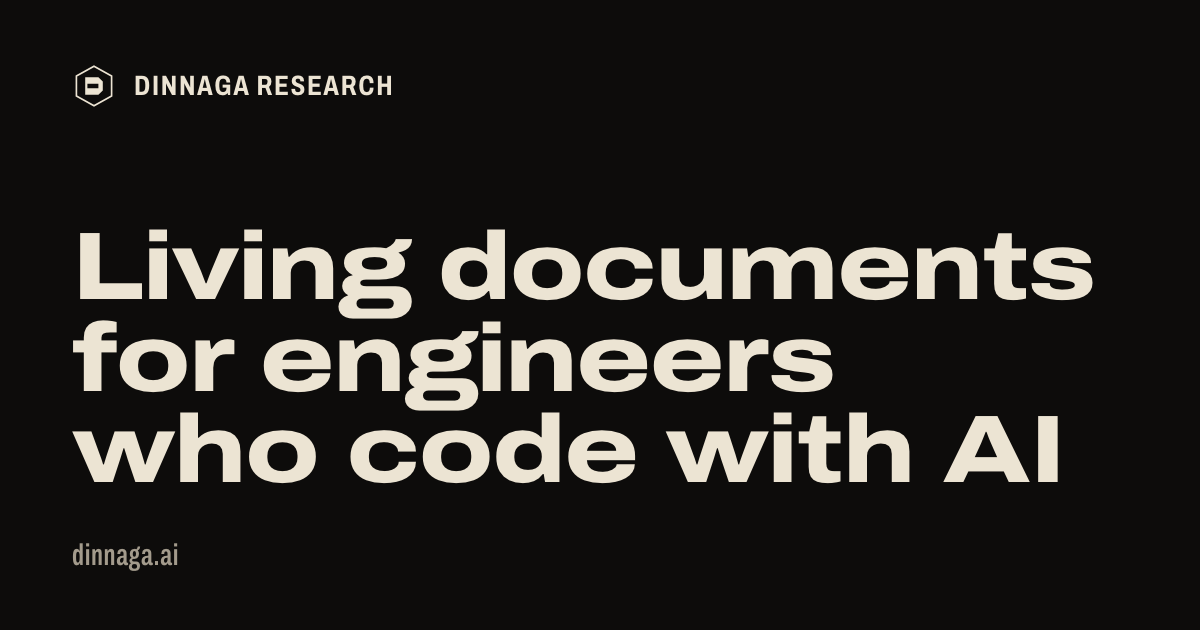
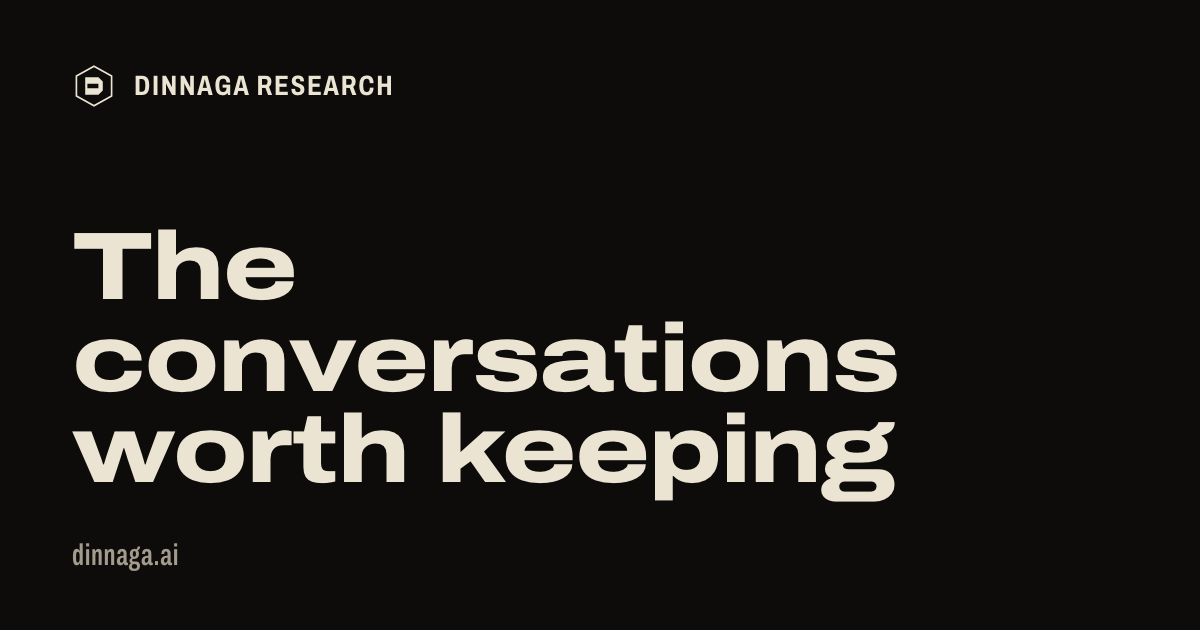
Copy: new headline and lede for the curation narrative
Headline "The conversations worth keeping" replaces "Living documents for
engineers who code with AI" on the hero, share card (og.png regenerated),
og:image:alt and README. The lede now reads: "Dinnaga Research finds the
best conversations and knowledge people are producing, tests what they
claim, and keeps what holds up, for readers now and for the machines that
infer from it." The sequence and its source labels are unchanged.

Changed region(s): [[0.0617, 0.3619, 0.8942, 0.8143], [0.37, 0.3619, 0.925, 0.4825]]

diff --git a/index.html b/index.html
@@ -6,7 +6,7 @@
     <title>Dinnaga Research</title>
     <meta
       name="description"
-      content="Dinnaga Research reads the papers, podcasts and vendor docs, tests what they claim, and publishes what holds up."
+      content="Dinnaga Research finds the best conversations and knowledge people are producing, tests what they claim, and keeps what holds up, for readers now and for the machines that infer from it."
     />
     <meta name="color-scheme" content="dark" />
     <meta name="theme-color" content="#0d0c0b" />
@@ -14,14 +14,14 @@
     <meta property="og:site_name" content="Dinnaga Research" />
     <meta
       property="og:description"
-      content="Dinnaga Research reads the papers, podcasts and vendor docs, tests what they claim, and publishes what holds up."
+      content="Dinnaga Research finds the best conversations and knowledge people are producing, tests what they claim, and keeps what holds up, for readers now and for the machines that infer from it."
     />
     <meta property="og:type" content="website" />
     <meta property="og:url" content="https://dinnaga.ai/" />
     <meta property="og:image" content="https://dinnaga.ai/og.png" />
     <meta property="og:image:width" content="1200" />
     <meta property="og:image:height" content="630" />
-    <meta property="og:image:alt" content="Dinnaga Research: Living documents for engineers who code with AI" />
+    <meta property="og:image:alt" content="Dinnaga Research: The conversations worth keeping" />
     <meta name="twitter:card" content="summary_large_image" />
     <meta name="twitter:image" content="https://dinnaga.ai/og.png" />
     <link rel="icon" type="image/svg+xml" href="/favicon.svg" />

diff --git a/src/lib/darkroom/sequence.test.ts b/src/lib/darkroom/sequence.test.ts
@@ -50,7 +50,7 @@ function build() {
   const art = document.createElement('div');
   const hero = document.createElement('div');
   const h1 = document.createElement('h1');
-  h1.textContent = 'Living documents for engineers who code with AI';
+  h1.textContent = 'The conversations worth keeping';
   hero.append(h1);
   const counter = document.createElement('p');
   const stamp = document.createElement('div');
@@ -158,11 +158,11 @@ describe('mountSequence', () => {
     roCallbacks[0]!([], {} as ResizeObserver);
     await settle();
     expect(els.h1.querySelectorAll('.ln').length).toBeGreaterThan(0);
-    expect(els.h1.textContent!.replace(/\s+/g, ' ')).toBe('Living documents for engineers who code with AI');
+    expect(els.h1.textContent!.replace(/\s+/g, ' ')).toBe('The conversations worth keeping');
     handle.destroy();
     handle = null;
     expect(els.h1.children).toHaveLength(0);
-    expect(els.h1.textContent).toBe('Living documents for engineers who code with AI');
+    expect(els.h1.textContent).toBe('The conversations worth keeping');
   });
 
   it('reports the stage on scroll and writes progress to the stage', async () => {

diff --git a/src/test/og.test.ts b/src/test/og.test.ts
@@ -51,7 +51,7 @@ describe('generated images', () => {
 
 describe('card template', () => {
   it('carries the headline and the domain', () => {
-    expect(TEMPLATE()).toContain('Living documents for engineers who code with AI');
+    expect(TEMPLATE()).toContain('The conversations worth keeping');
     expect(TEMPLATE()).toContain('dinnaga.ai');
     expect(TEMPLATE()).toContain('Dinnaga Research');
   });
@@ -122,7 +122,7 @@ describe('index.html share and icon tags', () => {
     expect(one('property', 'og:title')).toBe('Dinnaga Research');
     expect(one('property', 'og:site_name')).toBe('Dinnaga Research');
     expect(one('property', 'og:image')).toBe('https://dinnaga.ai/og.png');
-    expect(one('property', 'og:image:alt')).toBe('Dinnaga Research: Living documents for engineers who code with AI');
+    expect(one('property', 'og:image:alt')).toBe('Dinnaga Research: The conversations worth keeping');
     expect(one('name', 'twitter:image')).toBe('https://dinnaga.ai/og.png');
     expect(one('property', 'og:image:width')).toBe('1200');
     expect(one('property', 'og:image:height')).toBe('630');

diff --git a/src/routes/Home/Home.test.tsx b/src/routes/Home/Home.test.tsx
@@ -20,11 +20,11 @@ describe('Home', () => {
     );
     expect(screen.getAllByRole('heading', { level: 1 })).toHaveLength(1);
     expect(screen.getByRole('heading', { level: 1 })).toHaveTextContent(
-      'Living documents for engineers who code with AI',
+      'The conversations worth keeping',
     );
     expect(
       screen.getByText(
-        'Dinnaga Research reads the papers, podcasts and vendor docs, tests what they claim, and publishes what holds up.',
+        'Dinnaga Research finds the best conversations and knowledge people are producing, tests what they claim, and keeps what holds up, for readers now and for the machines that infer from it.',
       ),
     ).toBeInTheDocument();
     expect(screen.getByRole('link', { name: 'David Ryan' }).parentElement!.textContent).toBe(

diff --git a/src/routes/Home/sections/HomeHero.test.tsx b/src/routes/Home/sections/HomeHero.test.tsx
@@ -13,9 +13,9 @@ const rt = vi.hoisted(() => {
 vi.mock('../../../lib/darkroom', () => ({ mountSequence: rt.mountSequence }));
 vi.mock('../../../lib/darkroom/paint', () => ({ paintStill: vi.fn(() => null) }));
 
-const H1 = 'Living documents for engineers who code with AI';
+const H1 = 'The conversations worth keeping';
 const LEDE =
-  'Dinnaga Research reads the papers, podcasts and vendor docs, tests what they claim, and publishes what holds up.';
+  'Dinnaga Research finds the best conversations and knowledge people are producing, tests what they claim, and keeps what holds up, for readers now and for the machines that infer from it.';
 const FOUNDER = 'Dinnaga Research is run by David Ryan.';
 const flush = () => act(() => new Promise((r) => setTimeout(r, 0)));
 

diff --git a/src/data/copy.ts b/src/data/copy.ts
@@ -1,5 +1,5 @@
 // ABOUTME: Approved copy used in more than one place (#16, #67): the hero headline and the lede.
 // ABOUTME: The lede is the mission, said once on / and once on /method (#16 rule 2), and is the default description.
-export const HEADLINE = 'Living documents for engineers who code with AI';
+export const HEADLINE = 'The conversations worth keeping';
 export const LEDE =
-  'Dinnaga Research reads the papers, podcasts and vendor docs, tests what they claim, and publishes what holds up.';
+  'Dinnaga Research finds the best conversations and knowledge people are producing, tests what they claim, and keeps what holds up, for readers now and for the machines that infer from it.';

diff --git a/src/routes/Method/Method.test.tsx b/src/routes/Method/Method.test.tsx
@@ -45,7 +45,7 @@ describe('Method', () => {
     expect(screen.getByRole('heading', { level: 1 })).toHaveTextContent(/^How we test$/);
     expect(screen.getByText(LEDE)).toBeInTheDocument();
     expect(LEDE).toBe(
-      'Dinnaga Research reads the papers, podcasts and vendor docs, tests what they claim, and publishes what holds up.',
+      'Dinnaga Research finds the best conversations and knowledge people are producing, tests what they claim, and keeps what holds up, for readers now and for the machines that infer from it.',
     );
     expect(
       screen.getByText(

diff --git a/src/lib/routeMeta.test.ts b/src/lib/routeMeta.test.ts
@@ -4,7 +4,7 @@ import { describe, expect, it } from 'vitest';
 import { metaFor } from './routeMeta';
 
 const LEDE =
-  'Dinnaga Research reads the papers, podcasts and vendor docs, tests what they claim, and publishes what holds up.';
+  'Dinnaga Research finds the best conversations and knowledge people are producing, tests what they claim, and keeps what holds up, for readers now and for the machines that infer from it.';
 const NOT_FOUND = {
   title: 'Page not found · Dinnaga Research',
   description: "There's nothing at this address.",

diff --git a/tests/e2e/chrome.spec.ts b/tests/e2e/chrome.spec.ts
@@ -3,7 +3,7 @@
 import { expect, test, type Page } from '@playwright/test';
 
 const LEDE =
-  'Dinnaga Research reads the papers, podcasts and vendor docs, tests what they claim, and publishes what holds up.';
+  'Dinnaga Research finds the best conversations and knowledge people are producing, tests what they claim, and keeps what holds up, for readers now and for the machines that infer from it.';
 
 // One sample per row of #70's table.
 const META: { path: string; title: string; description: string; noindex: boolean }[] = [

diff --git a/tests/e2e/routing.spec.ts b/tests/e2e/routing.spec.ts
@@ -6,7 +6,7 @@ import { readFileSync } from 'node:fs';
 const fullFixture: unknown = JSON.parse(readFileSync('tests/fixtures/living/full.json', 'utf8'));
 
 const PAGES: { path: string; heading: string | RegExp }[] = [
-  { path: '/', heading: 'Living documents for engineers who code with AI' },
+  { path: '/', heading: 'The conversations worth keeping' },
   { path: '/atisha', heading: 'Atisha' },
   { path: '/building', heading: "What we're building" },
   { path: '/method', heading: 'How we test' },

diff --git a/tests/e2e/home.spec.ts b/tests/e2e/home.spec.ts
@@ -60,7 +60,7 @@ test.describe('the homepage', () => {
     await living(page);
     await page.goto('/');
     await expect(page.getByRole('heading', { level: 1 })).toHaveCount(1);
-    await expect(page.getByRole('heading', { level: 1 })).toHaveText('Living documents for engineers who code with AI');
+    await expect(page.getByRole('heading', { level: 1 })).toHaveText('The conversations worth keeping');
     await expect(page.locator('main')).toHaveCount(1);
   });
 

diff --git a/scripts/og-template.html b/scripts/og-template.html
@@ -93,7 +93,7 @@
     </svg>
     Dinnaga Research
   </p>
-  <h1>Living documents for engineers who code with AI</h1>
+  <h1>The conversations worth keeping</h1>
   <p class="domain">dinnaga.ai</p>
 </body>
 </html>
